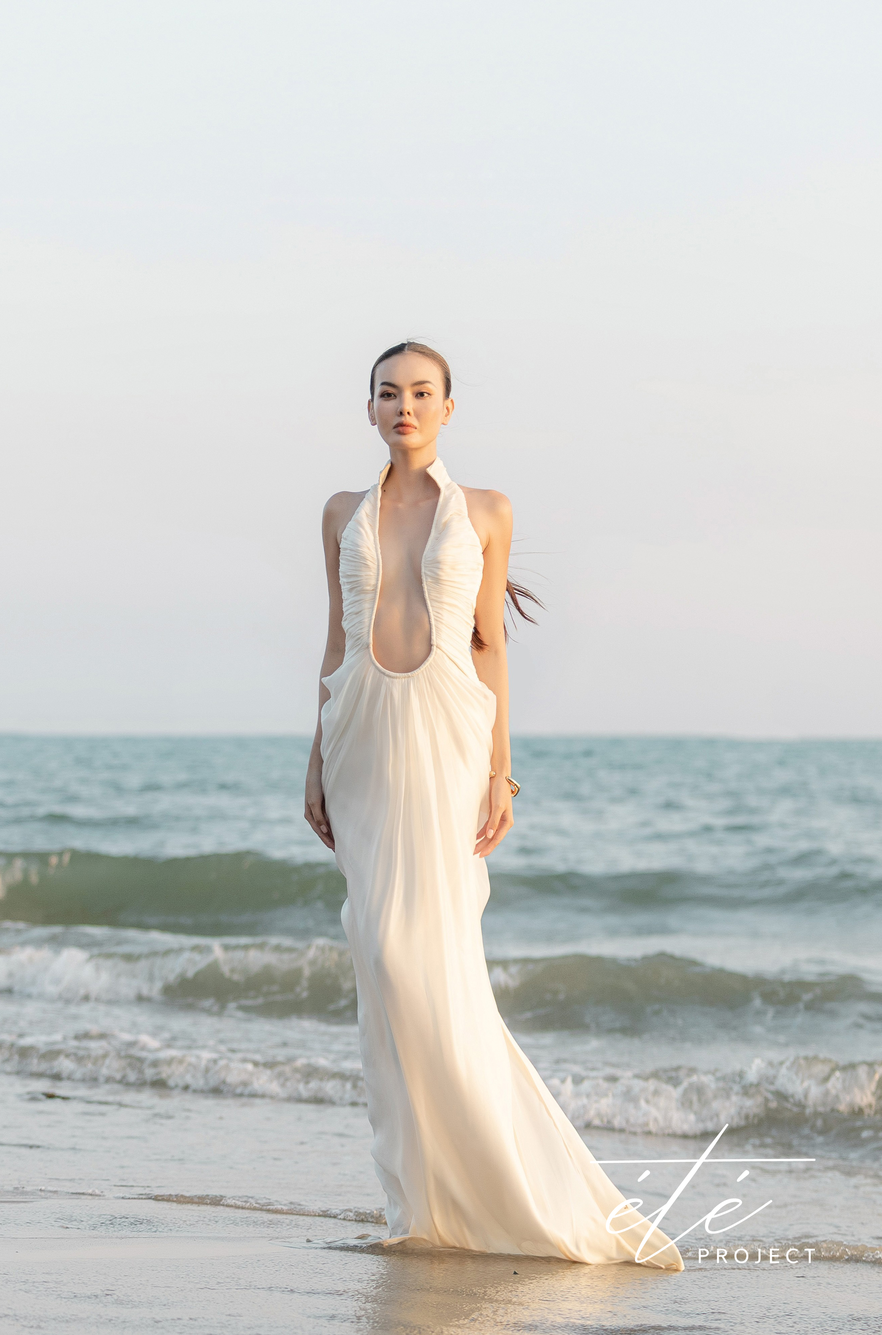
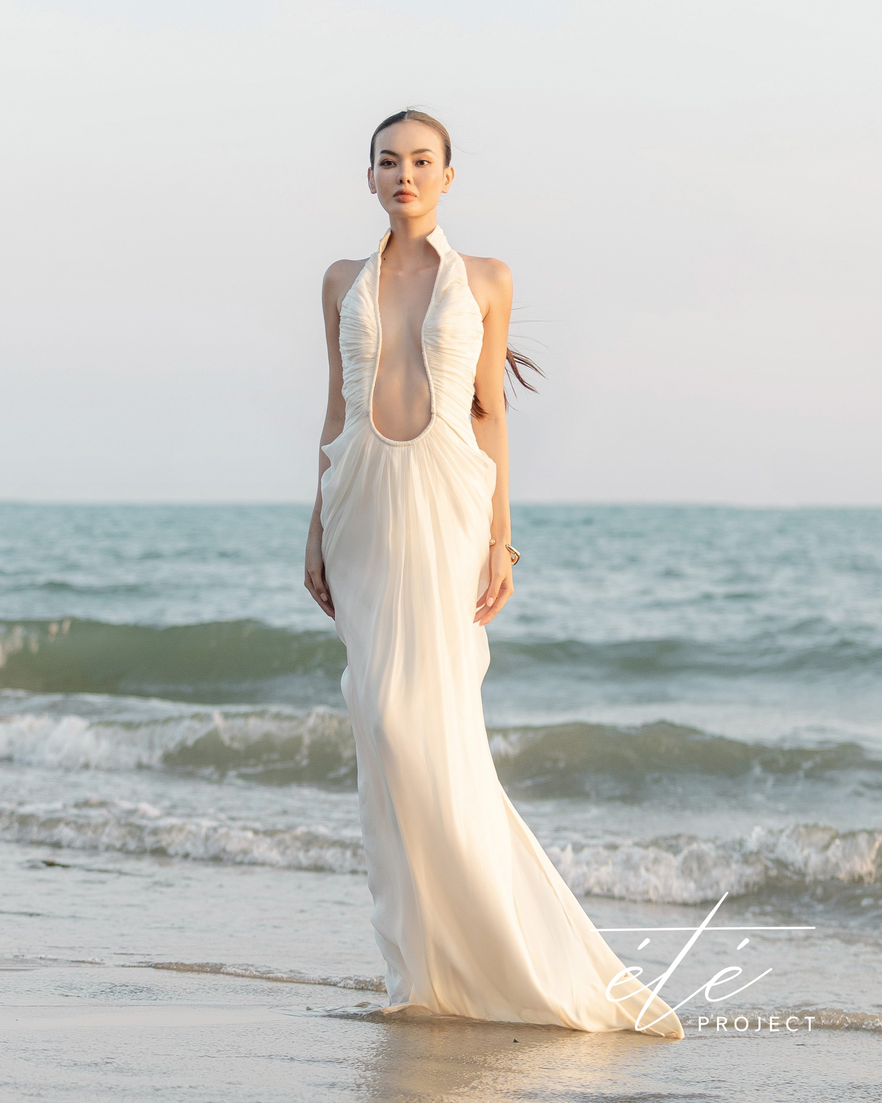
style: 모델 콘테스트 갤러리 호버 텍스트 통일
- FASHION MOMENTS 갤러리의 모든 호버 텍스트를 통일
  - 제목: Model Portfolio
  - 부제: Professional Shot
- 일관된 사용자 경험 제공

🤖 Generated with [Claude Code](https://claude.ai/code)

diff --git a/model-contest/index.html b/model-contest/index.html
@@ -1173,15 +1173,15 @@
             <div class="gallery-item">
                 <img src="close/BACO-FASHION-SHOOT-222.jpg" alt="Fashion Model 1">
                 <div class="gallery-overlay">
-                    <h4>Professional Shooting</h4>
-                    <p>Close-up Portrait</p>
+                    <h4>Model Portfolio</h4>
+                    <p>Professional Shot</p>
                 </div>
             </div>
             <div class="gallery-item">
                 <img src="close/BACO-FASHION-SHOOT-359.jpg" alt="Fashion Model 2">
                 <div class="gallery-overlay">
-                    <h4>Fashion Portrait</h4>
-                    <p>Studio Photography</p>
+                    <h4>Model Portfolio</h4>
+                    <p>Professional Shot</p>
                 </div>
             </div>
             <div class="gallery-item">
@@ -1194,106 +1194,106 @@
             <div class="gallery-item">
                 <img src="close/JNY_8594.jpg" alt="Fashion Model 4">
                 <div class="gallery-overlay">
-                    <h4>Fashion Week</h4>
-                    <p>Runway Ready</p>
+                    <h4>Model Portfolio</h4>
+                    <p>Professional Shot</p>
                 </div>
             </div>
             <div class="gallery-item">
                 <img src="dynamism/BACO-FASHION-SHOOT-344.jpg" alt="Fashion Model 5">
                 <div class="gallery-overlay">
-                    <h4>Dynamic Pose</h4>
-                    <p>Movement & Energy</p>
+                    <h4>Model Portfolio</h4>
+                    <p>Professional Shot</p>
                 </div>
             </div>
             <div class="gallery-item">
                 <img src="dynamism/JNY_8583.jpg" alt="Fashion Model 6">
                 <div class="gallery-overlay">
-                    <h4>Editorial Shot</h4>
-                    <p>Magazine Style</p>
+                    <h4>Model Portfolio</h4>
+                    <p>Professional Shot</p>
                 </div>
             </div>
             <div class="gallery-item">
                 <img src="dynamism/_B.thelabel.JPG" alt="Fashion Model 7">
                 <div class="gallery-overlay">
-                    <h4>B.TheLabel Collection</h4>
-                    <p>Designer Fashion</p>
+                    <h4>Model Portfolio</h4>
+                    <p>Professional Shot</p>
                 </div>
             </div>
             <div class="gallery-item">
                 <img src="dynamism/_Bthelabel2A.jpg" alt="Fashion Model 8">
                 <div class="gallery-overlay">
-                    <h4>Avant-garde Style</h4>
-                    <p>Contemporary Fashion</p>
+                    <h4>Model Portfolio</h4>
+                    <p>Professional Shot</p>
                 </div>
             </div>
             <div class="gallery-item">
                 <img src="dynamism/B.TheLabel L4J.jpg" alt="Fashion Model 9">
                 <div class="gallery-overlay">
-                    <h4>Runway Collection</h4>
-                    <p>B.TheLabel Design</p>
+                    <h4>Model Portfolio</h4>
+                    <p>Professional Shot</p>
                 </div>
             </div>
             <div class="gallery-item">
                 <img src="dynamism/IMG_0186.JPG" alt="Fashion Model 10">
                 <div class="gallery-overlay">
-                    <h4>Fashion Portrait</h4>
-                    <p>Model Photography</p>
+                    <h4>Model Portfolio</h4>
+                    <p>Professional Shot</p>
                 </div>
             </div>
             <div class="gallery-item">
                 <img src="dynamism/IMG_0998.JPG" alt="Fashion Model 11">
                 <div class="gallery-overlay">
-                    <h4>Contemporary Look</h4>
-                    <p>Fashion Style</p>
+                    <h4>Model Portfolio</h4>
+                    <p>Professional Shot</p>
                 </div>
             </div>
             <div class="gallery-item">
                 <img src="dynamism/IMG_1008.JPG" alt="Fashion Model 12">
                 <div class="gallery-overlay">
-                    <h4>Modern Fashion</h4>
-                    <p>Artistic Expression</p>
+                    <h4>Model Portfolio</h4>
+                    <p>Professional Shot</p>
                 </div>
             </div>
             <div class="gallery-item">
                 <img src="dynamism/IMG_1892.JPG" alt="Fashion Model 13">
                 <div class="gallery-overlay">
-                    <h4>Fashion Statement</h4>
-                    <p>Bold Style</p>
+                    <h4>Model Portfolio</h4>
+                    <p>Professional Shot</p>
                 </div>
             </div>
             <div class="gallery-item">
                 <img src="dynamism/IMG_1917.JPG" alt="Fashion Model 14">
                 <div class="gallery-overlay">
-                    <h4>Elegant Pose</h4>
-                    <p>Classic Beauty</p>
+                    <h4>Model Portfolio</h4>
+                    <p>Professional Shot</p>
                 </div>
             </div>
             <div class="gallery-item">
                 <img src="dynamism/IMG_1924.JPG" alt="Fashion Model 15">
                 <div class="gallery-overlay">
-                    <h4>Fashion Forward</h4>
-                    <p>Trendsetting Style</p>
+                    <h4>Model Portfolio</h4>
+                    <p>Professional Shot</p>
                 </div>
             </div>
             <div class="gallery-item">
                 <img src="dynamism/IMG_1973.JPG" alt="Fashion Model 16">
                 <div class="gallery-overlay">
-                    <h4>Creative Fashion</h4>
-                    <p>Artistic Vision</p>
+                    <h4>Model Portfolio</h4>
+                    <p>Professional Shot</p>
                 </div>
             </div>
             <div class="gallery-item">
                 <img src="dynamism/IMG_1980.JPG" alt="Fashion Model 17">
                 <div class="gallery-overlay">
-                    <h4>Runway Ready</h4>
-                    <p>Professional Model</p>
+                    <h4>Model Portfolio</h4>
+                    <p>Professional Shot</p>
                 </div>
             </div>
             <div class="gallery-item">
                 <img src="dynamism/IMG_1987.JPG" alt="Fashion Model 18">
                 <div class="gallery-overlay">
-                    <h4>High Fashion</h4>
-                    <p>Editorial Excellence</p>
+                    <h4>Model Portfolio</h4>
+                    <p>Professional Shot</p>
                 </div>
             </div>
         </div>
